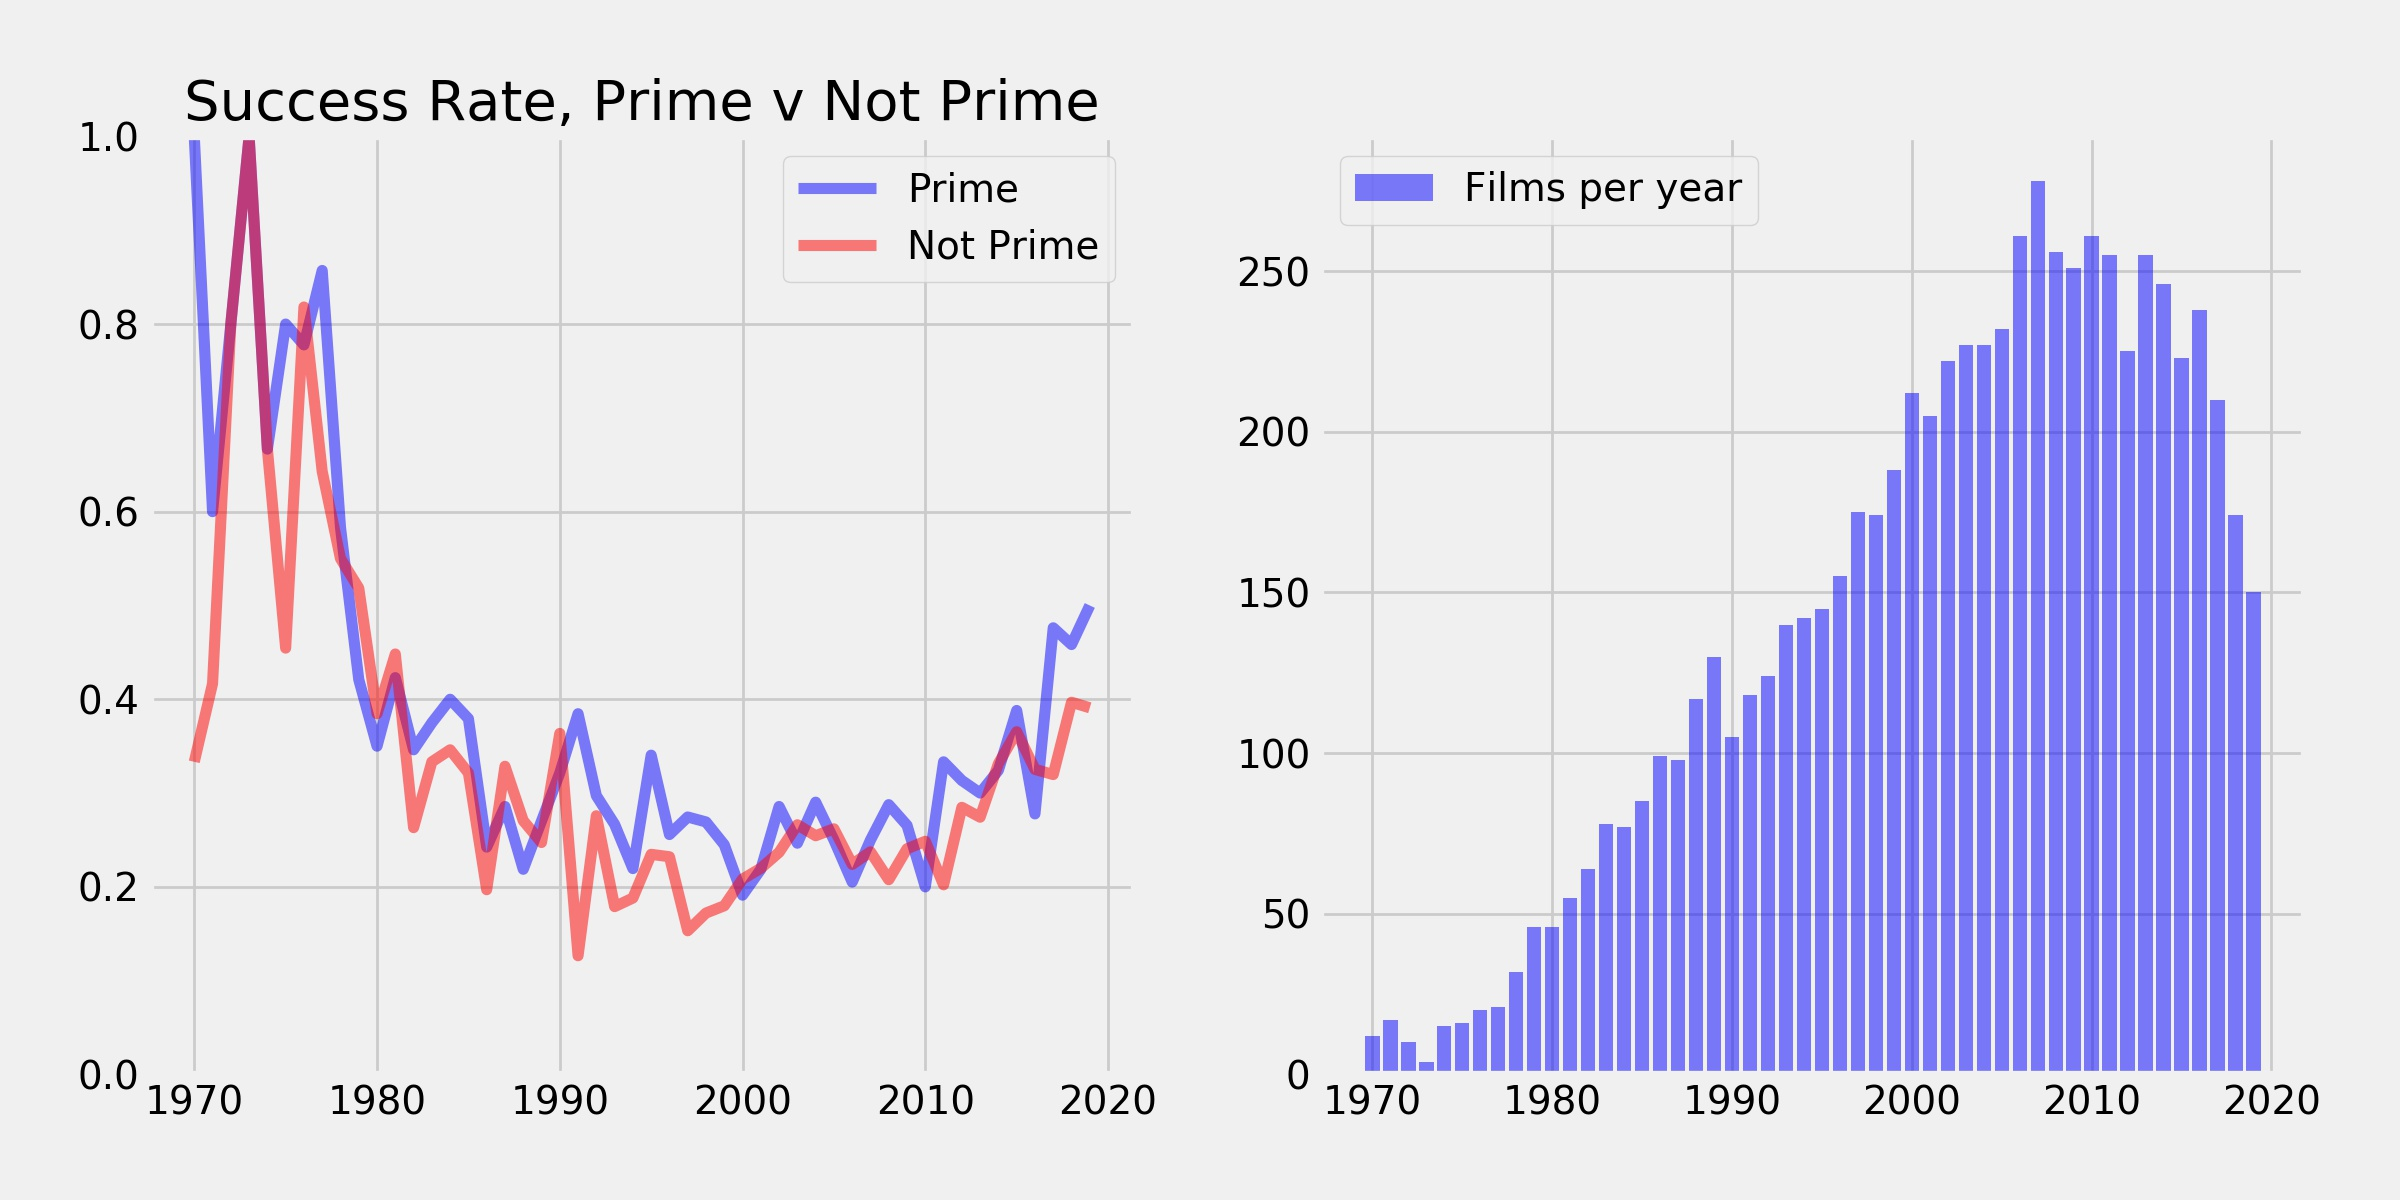
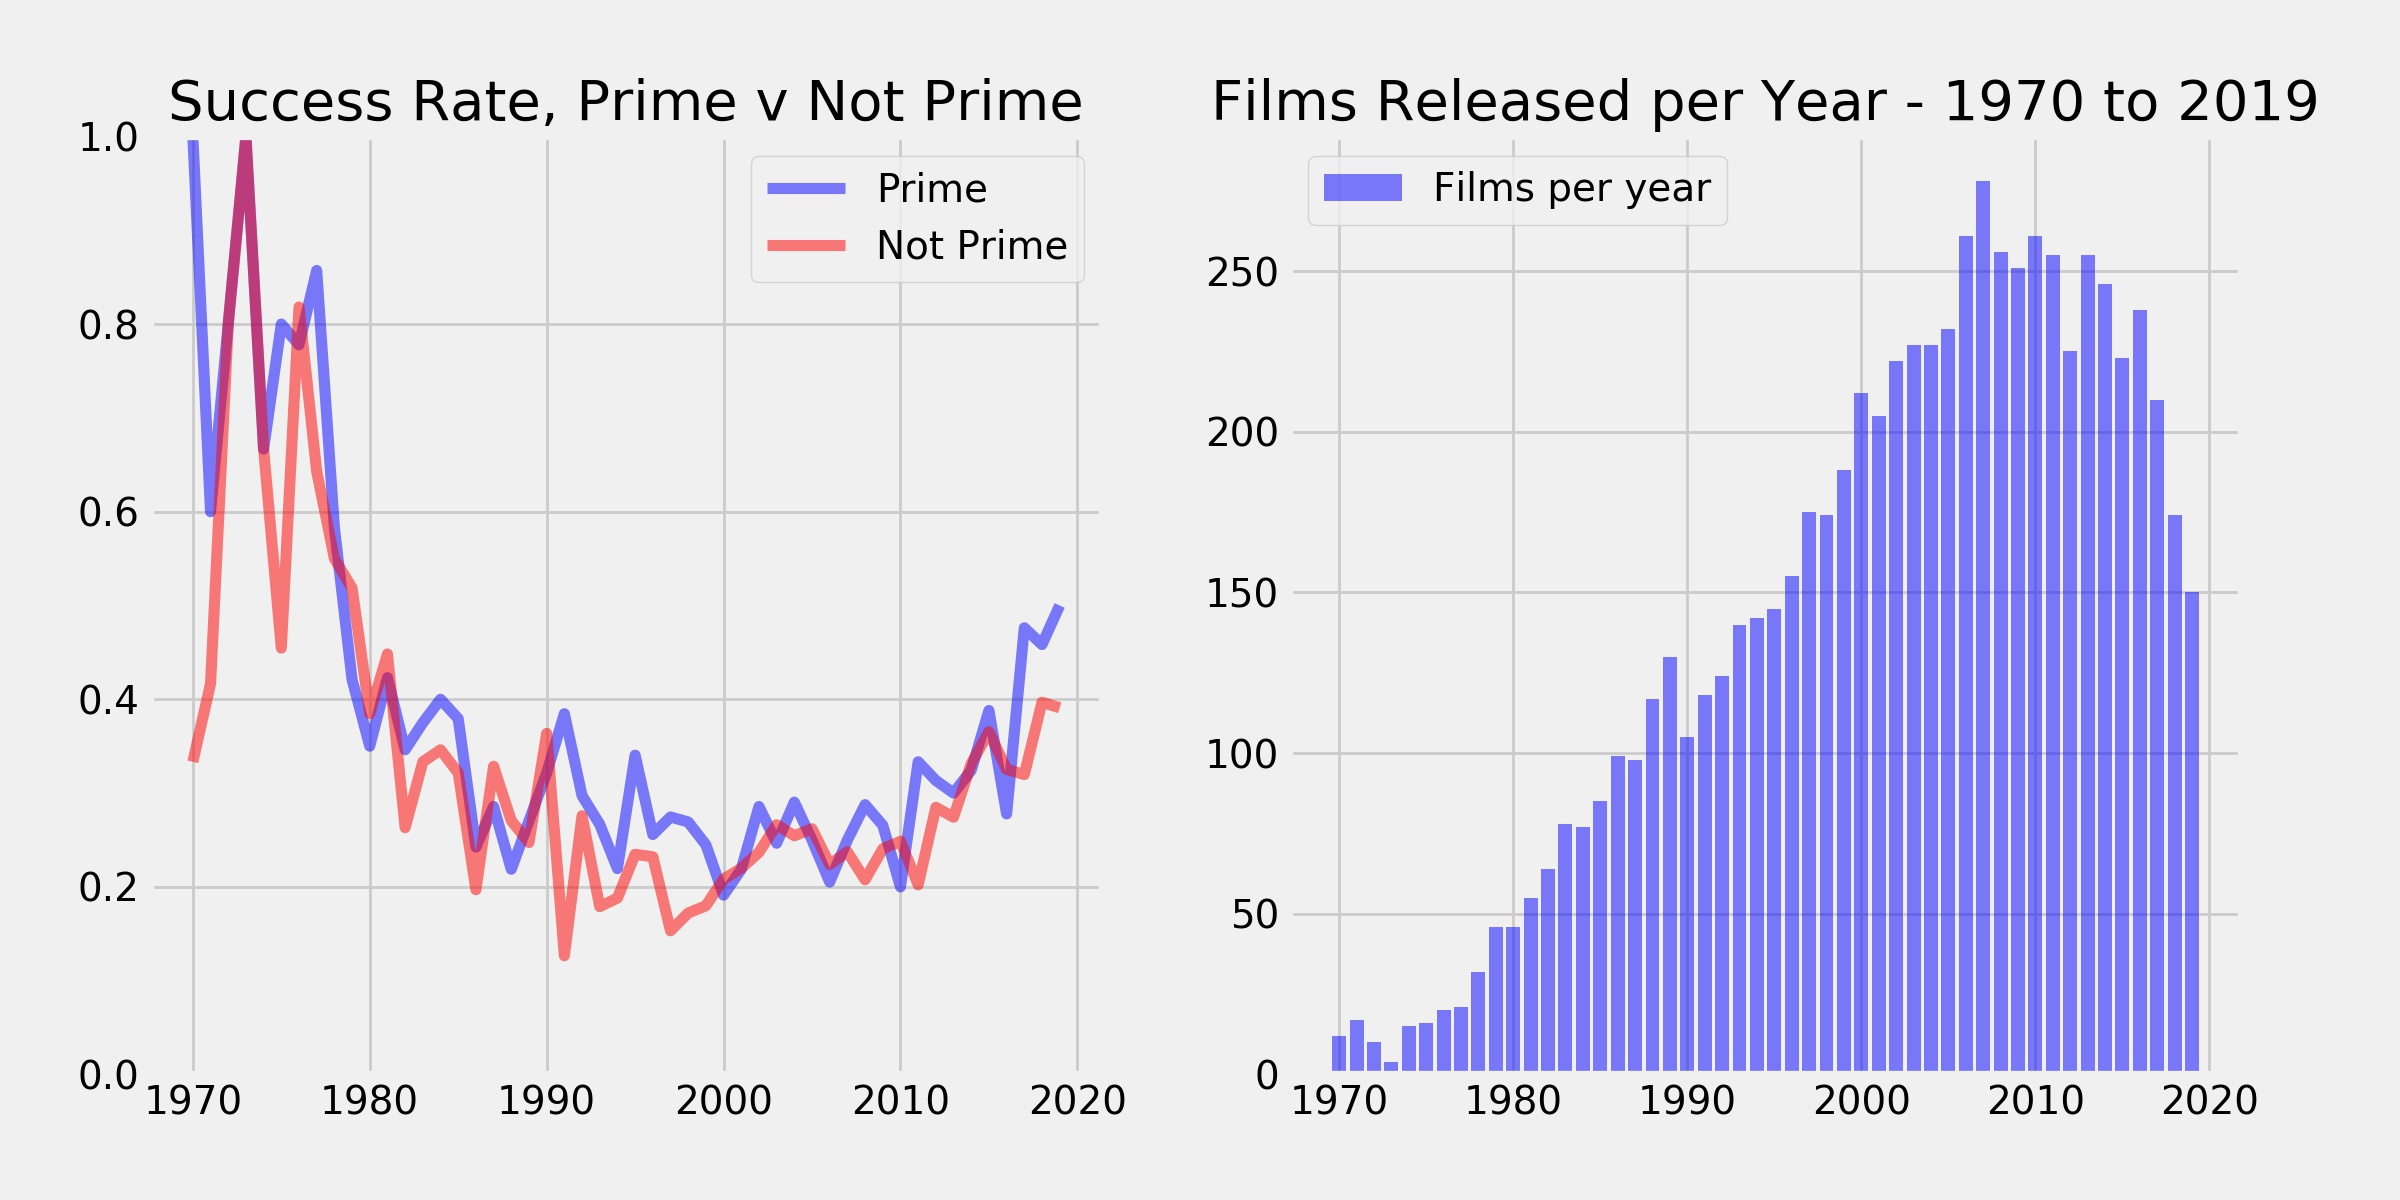
second final

diff --git a/src/analysis.py b/src/analysis.py
@@ -65,6 +65,7 @@ ax[0].set_title('Success Rate, Prime v Not Prime')
 ax[0].set_ylim(0, 1)
 ax[1].bar(decades, releases, color = 'b', alpha = 0.5, label = 'Films per year')
 ax[1].legend()
+ax[1].set_title('Films Released per Year - 1970 to 2019')
 plt.tight_layout(pad = 2)
 plt.savefig('images/years_sr_supply.jpeg')
 plt.close()
@@ -131,6 +132,15 @@ ax.axvline(high_comp_threshold, color = 'r', linestyle = '--', linewidth = 2)
 ax.set_title('Weeks with Competitors since 2000')
 plt.savefig('images/competitor_hist_2000.jpeg')
 plt.close()
+
+# prime v not prime for 2000s
+alpha = 0.05
+m1 = movies_2000s_df['is_prime'] == 1
+prime_results = movies_2000s_df['is_success'][m1]
+m2 = movies_2000s_df['is_prime'] == 0
+not_prime_results = movies_2000s_df['is_success'][m2]
+prime_2000s_ztest = HypoZtest(prime_results, not_prime_results, val = 0, alpha = alpha, alt = 'larger')
+print(f'Prime v Not Prime 2000s Result: {prime_2000s_ztest.result}.')
 
 # Get the separate sets by high, mid, low competitive sets
 alpha = 0.025
@@ -255,10 +265,26 @@ high_mask = big_budget_df['competitors'] >= high_comp_threshold
 low_comp_results = big_budget_df['is_success'][low_mask]
 high_comp_results = big_budget_df['is_success'][high_mask]
 mid_comp_results = big_budget_df['is_success'][-low_mask & -high_mask]
-big_budg_low_comp_ztest = HypoZtest(low_comp_results, mid_comp_results, alpha = 0.025, alt = 'larger')
-big_budg_high_comp_ztest = HypoZtest(high_comp_results, mid_comp_results, alpha = 0.025, alt = 'smaller')
+big_budg_low_comp_ztest = HypoZtest(low_comp_results, mid_comp_results, alpha = alpha, alt = 'larger')
+big_budg_high_comp_ztest = HypoZtest(high_comp_results, mid_comp_results, alpha = alpha, alt = 'smaller')
 print(f'Big Budget Low Comp Results: {big_budg_low_comp_ztest.result}.')
 print(f'Big Budget High Comp Results: {big_budg_high_comp_ztest.result}.')
+
+
+# paul's two hist idea
+prime_mask = movies_clean_df['is_prime'] == 1
+prime_perf_thresh = movies_clean_df['perf_ratio'] <= np.percentile(movies_clean_df['perf_ratio'][prime_mask], 95)
+not_prime_mask = movies_clean_df['is_prime'] == 0
+not_prime_perf_thresh = movies_clean_df['perf_ratio'] <= np.percentile(movies_clean_df['perf_ratio'][not_prime_mask], 95)
+fig, ax = plt.subplots(1, 2, figsize = (12,6))
+ax[0].hist(movies_clean_df['perf_ratio'][prime_mask & prime_perf_thresh], color = 'b', alpha = 0.5)
+ax[0].set_title('Bottom 95% Perf - Prime')
+ax[1].hist(movies_clean_df['perf_ratio'][not_prime_mask & not_prime_perf_thresh], color = 'b', alpha = 0.5)
+ax[1].set_title('Bottom 95% Perf - Not Prime')
+plt.tight_layout(pad = 2)
+plt.savefig('images/two_hist.jpeg')
+plt.close()
+
 
 if __name__ == '__main__':
     pass

diff --git a/src/hypo_test.py b/src/hypo_test.py
@@ -16,8 +16,8 @@ class HypoZtest(object):
         self.run_test()
         
     def run_test(self):
-        self.z_score, self.test_statistic = ztest(self.x1, self.x2, self.val, self.alt)
-        if self.test_statistic <= self.alpha:
+        self.z_score, self.p_value = ztest(self.x1, self.x2, self.val, self.alt)
+        if self.p_value <= self.alpha:
             self.result = 'reject H0'
         else:
             self.result = 'cannot reject H0'

diff --git a/presentation.md b/presentation.md
@@ -2,7 +2,7 @@
 
 ## Background
 
-I've been curious about seasonality and competition in the film industry for years. Is there a good reason why big budget, super-hero/action movies seem to come out mostly in the summer or during the end of the year? Are they more likely to be successful in those times of year? What effect (if any) does the competition play in film success? As a consumer, I like Fast and Furious movies just as much in February as I do July, but I only have so much time to go to the theater. When there are several movies out I want to see, I probably only get a chance to 1 or 2 of them. Does it make sense to cluster some releases in the summer and end of year? Am I am the only one annoyed by this?
+I've been curious about seasonality and competition in the film industry for years. Is there a good reason why big budget, super-hero/action movies seem to come out mostly in the summer or during the end of the year? Are they more likely to be successful in those times of year? What effect (if any) does the competition play in film success? As a consumer, I like *Fast and Furious* movies just as much in February as I do July, but I only have so much time to go to the theater. When there are several movies out I want to see, I probably only get a chance to 1 or 2 of them. Does it make sense to cluster some releases in the summer and end of year? Am I am the only one annoyed by this?
 
 Every industry contains a certain set of unwritten rules or stories that identify standard behaviors and set out what it takes to make money. In the film industry, it seems that one of the most common and pervasive of these rules is that the season in which a film is released has an outsized effect on the chances of its success. Studios have created stories (as in mental narratives that state a perspective on how the world works) about consumer behaviors and the relationship between those behaviors and the probability of success for any particular film. 
 
@@ -55,11 +55,13 @@ Second, wildly successful films play an outsized role in profit generation. In s
 
 ![Titanic and Sharknado](images/both.jpeg)
 
-For example, the most profitable week of the year is week 50 (Christmas week). In the dataset, there are 133 films released in week 50, but **about 20% (or roughly $5B) of the total profit** of that week is attributable to two films, *Avatar* and *Star Wars: Episode VII*. Massive hits like these are by definition outliers (and outliers are hard to predict or analyze). 
+ The most profitable week of the year is week 50 (Christmas week). In the dataset, there are 133 films released in week 50, but **about 20% (or roughly $5B) of the total profit** of that week is attributable to two films, *Avatar* and *Star Wars: Episode VII*. Massive hits like these are by definition outliers (and outliers are hard to predict or analyze). 
 
-Further, even focusing on 'return' alone can be challenging. For example, *The Blair Witch Project* made ~$250M on its paltry $60k budget (roughly a 416,667% return). Analyzing returns while including these outliers would have the potential to lead us astray.
+Further, even focusing on 'return' alone can be challenging. For example, *The Blair Witch Project* made ~$250M on its paltry $60k budget (roughly a 416,667% return). Analyzing returns while including these outliers would have the potential to lead us astray. Excluding the outliers, the distribution of returns is very similar:
 
-Thus, for the purposes of this analysis, it makes more sense to focus on commercial success - that is, sufficient return on the investment. Using both my own experience and a small survey of people in the industry, I landed on a threshold of three times the budget in order for a film to be considered commercially successful. Using this metric for success, I plotted the rate of success for films across the year, as well as the mean budget of the films by week, and the 'supply' or count of films per week. I was most interested in investigating the summer and winter windows. These windows (hereafter referred to as 'prime') run from the 20th to the 32nd weeks, late May to the beginning of August, and the 47th to the 51st weeks, Thanksgiving to the end of year.
+![](images/two_hist.jpeg)
+
+Thus, for the purposes of this analysis, I decided it made more sense to focus on commercial success - that is, a return that exceeds a threshold. Using both my own experience in the industry and a small survey of people in the industry, I landed on a threshold of three times the budget in order for a film to be considered commercially successful. Using this metric for success, I plotted the rate of success for films across the year, as well as the mean budget of the films by week, and the 'supply' or count of films per week. I was most interested in investigating the summer and winter windows. These windows (hereafter referred to as 'prime') run from the 20th to the 32nd weeks, late May to the beginning of August, and the 47th to the 51st weeks, Thanksgiving to the end of year.
 
 ![With highlights](images/comparison_hilite.jpeg)
 
@@ -98,7 +100,6 @@ To examine the role of supply (or competition) in film success, I used the count
 | Middle | 916 | 3287 | 0.279 |
 | High | 710 | 2886 | 0.246 |
 
-
 I then performed two hypothesis tests - low vs. middle and high vs. middle. Since I am doing two comparisons, I used an alpha of 0.025 (Bonferroni correction for an alpha of 0.05).
 
 #### Hypothesis Test #2A - Low v. Middle
@@ -121,15 +122,34 @@ I then performed two hypothesis tests - low vs. middle and high vs. middle. Sinc
 
 - Reject the null - high competition films underperform middle competition films.
 
-That seasonality and competitive set are significant is (potentially) unsurprising. The surprising thing was how significant the results were, which led me to consider why this might the case. The first thing that came to mind was time. Older films have much higher success rates:
+That seasonality and competitive set are significant is (potentially) unsurprising. The surprising thing was how significant the results were, which led me to consider why this might the case. The first thing that came to mind was time. Older films have much higher success rates and far less competition:
 
 ![Success Rate over time](images/years_sr_supply.jpeg)
 
 Indeed, the mean year for the low competititon films is 1986; for the high competition films, the mean year is 2008.
 
-## Hypthesis Test #3 - Competitive Effect - Films since 2000
+## Films since 2000
 
-I filtered down the dataset to just films released this century, some 4600 films. Same as above, I broke the dataset into three parts (low, middle, and high competitive weeks).
+I filtered the dataset down to just the films released this century, which is some 4600 films. I then performed the same hypothesis tests....
+
+#### Hypothesis Test #3 - Prime v Not Prime - Millenium Edition
+
+| Status | Successes | Attempts | Success Rate |
+| --- | --- | --- | --- |
+| Prime | 400 | 1359 | 0.294 |
+| Not Prime | 878  | 3249 | 0.27 |
+
+- Null hypothesis is that prime window success rate is equal to not prime window success rate. Alternative hypothesis is that the prime window success rate is greater than not prime.
+
+- One tailed z-test, alpha = 0.05
+
+- z-score = 1.667, test_statistic = 0.0488
+
+- Reject the null - prime window does outperfom not prime window.
+
+#### Hypothesis Test #4 - Competition - Millenium Edition
+
+I filtered down the dataset to just films released this century, some 4600 films. Same as above, I broke the dataset into three parts (low (9 or less), middle (10-15), and high (16 or more) competitive weeks).
 
 ![Histogram of Competitive Weeks](images/competitor_hist_2000.jpeg)
 
@@ -139,7 +159,7 @@ I filtered down the dataset to just films released this century, some 4600 films
 | Middle | 736 | 2610 | 0.282 |
 | High | 290 | 1267 | 0.229 |
 
-#### Hypothesis Test #3A - Low v. Mid for the 2000s
+#### Hypothesis Test #4A - Low v. Mid - Millenium Edition
 
 - Null hypothesis is that success rate of low competition films is the same as middle competition films. Alternative is that low competition films outperform middle competition films.
 
@@ -147,11 +167,19 @@ I filtered down the dataset to just films released this century, some 4600 films
 
 - z-score = 3.29, test_statistic = 0.0005
 
-- Reject the null - low competition films outperform middle competition films
+- Reject the null - low competition films outperform middle competition films.
 
-#### Hypothesis Test #3B - High v. Mid for the 2000s
+#### Hypothesis Test #4B - High v. Mid - Millenium Edition
 
-## Some conclusions......
+- Null hypothesis is that success rate of high competition films is the same as middle competition films. Alternative is that high competition films underperform middle competition films.
+
+- One tailed z-test, alpha = 0.025
+
+- z-score = -3.52, test_statistic = 0.0002
+
+- Reject the null - high competition films underperform middle competition films.
+
+## Conclusions: First Blood
 
 Though the hypothesis tests show that the prime window and the competitive set almost definitely have an effect on the success rate of a film, it's pretty clear that there are some confounding factors/overlap that prevent a cleaner analysis. Prime window releases are not exactly the same as low competition releases, but studios do seem to constrain supply during prime windows. Also, it's impossible to prove a counter-factural; we can't say movie would have different performance with a different release date. A movie can only be released once.    
 
@@ -165,7 +193,7 @@ I decided to filter down the dataset again. This time, I wanted to look only at 
 - Mean budget for prime window is ~$130M v ~$104M for not prime
 - Still seems like there is a relationship between success and season, as well as success and competition.
 
-### Hypothesis Test #1: Prime v Not Prime
+### Hypothesis Test #1: Prime v Not Prime - Heavyweight Division
 
 | Status | Successes | Attempts | Success Rate |
 | --- | --- | --- | --- |
@@ -178,9 +206,11 @@ I decided to filter down the dataset again. This time, I wanted to look only at 
 
 - z-score = 3.2, test_statistic = 0.0007
 
-- Reject the null - prime window outperforms not prime window
+- Reject the null - prime window outperforms not prime window.
 
-### Hypothesis Test #2: Competitive Effect
+### Hypothesis Test #2: Competitive Effect - Heavyweight Division
+
+Once again, I broke the films into three groups - low competition (0 or 1 competitors), mid competition (2-4 competitors) and high competition (5 or more competitors).
 
 | Competition | Successes | Attempts | Success Rate |
 | --- | --- | --- | --- |
@@ -196,7 +226,7 @@ I decided to filter down the dataset again. This time, I wanted to look only at 
 
 - z-score = 3.555, test_statistic = 0.0002
 
-- Reject the null - low competition films outperform middle competition films
+- Reject the null - low competition films outperform middle competition films.
 
 ##### Test #2B: High v. Mid
 
@@ -206,9 +236,9 @@ I decided to filter down the dataset again. This time, I wanted to look only at 
 
 - z-score = -1.322, test_statistic = 0.093
 
-- Cannot reject the null.
+- Fail to reject the null.
 
-## Conclusions Part Deux
+## Conclusions: Part Deux
 
 - There is most likely some kind of confounding variable in the analysis of seasonality and competition.
 - It's possible that this is the result of both phenomenon being the result of one decision. Since both are determined by a studio, it's very difficult to untangle them.
